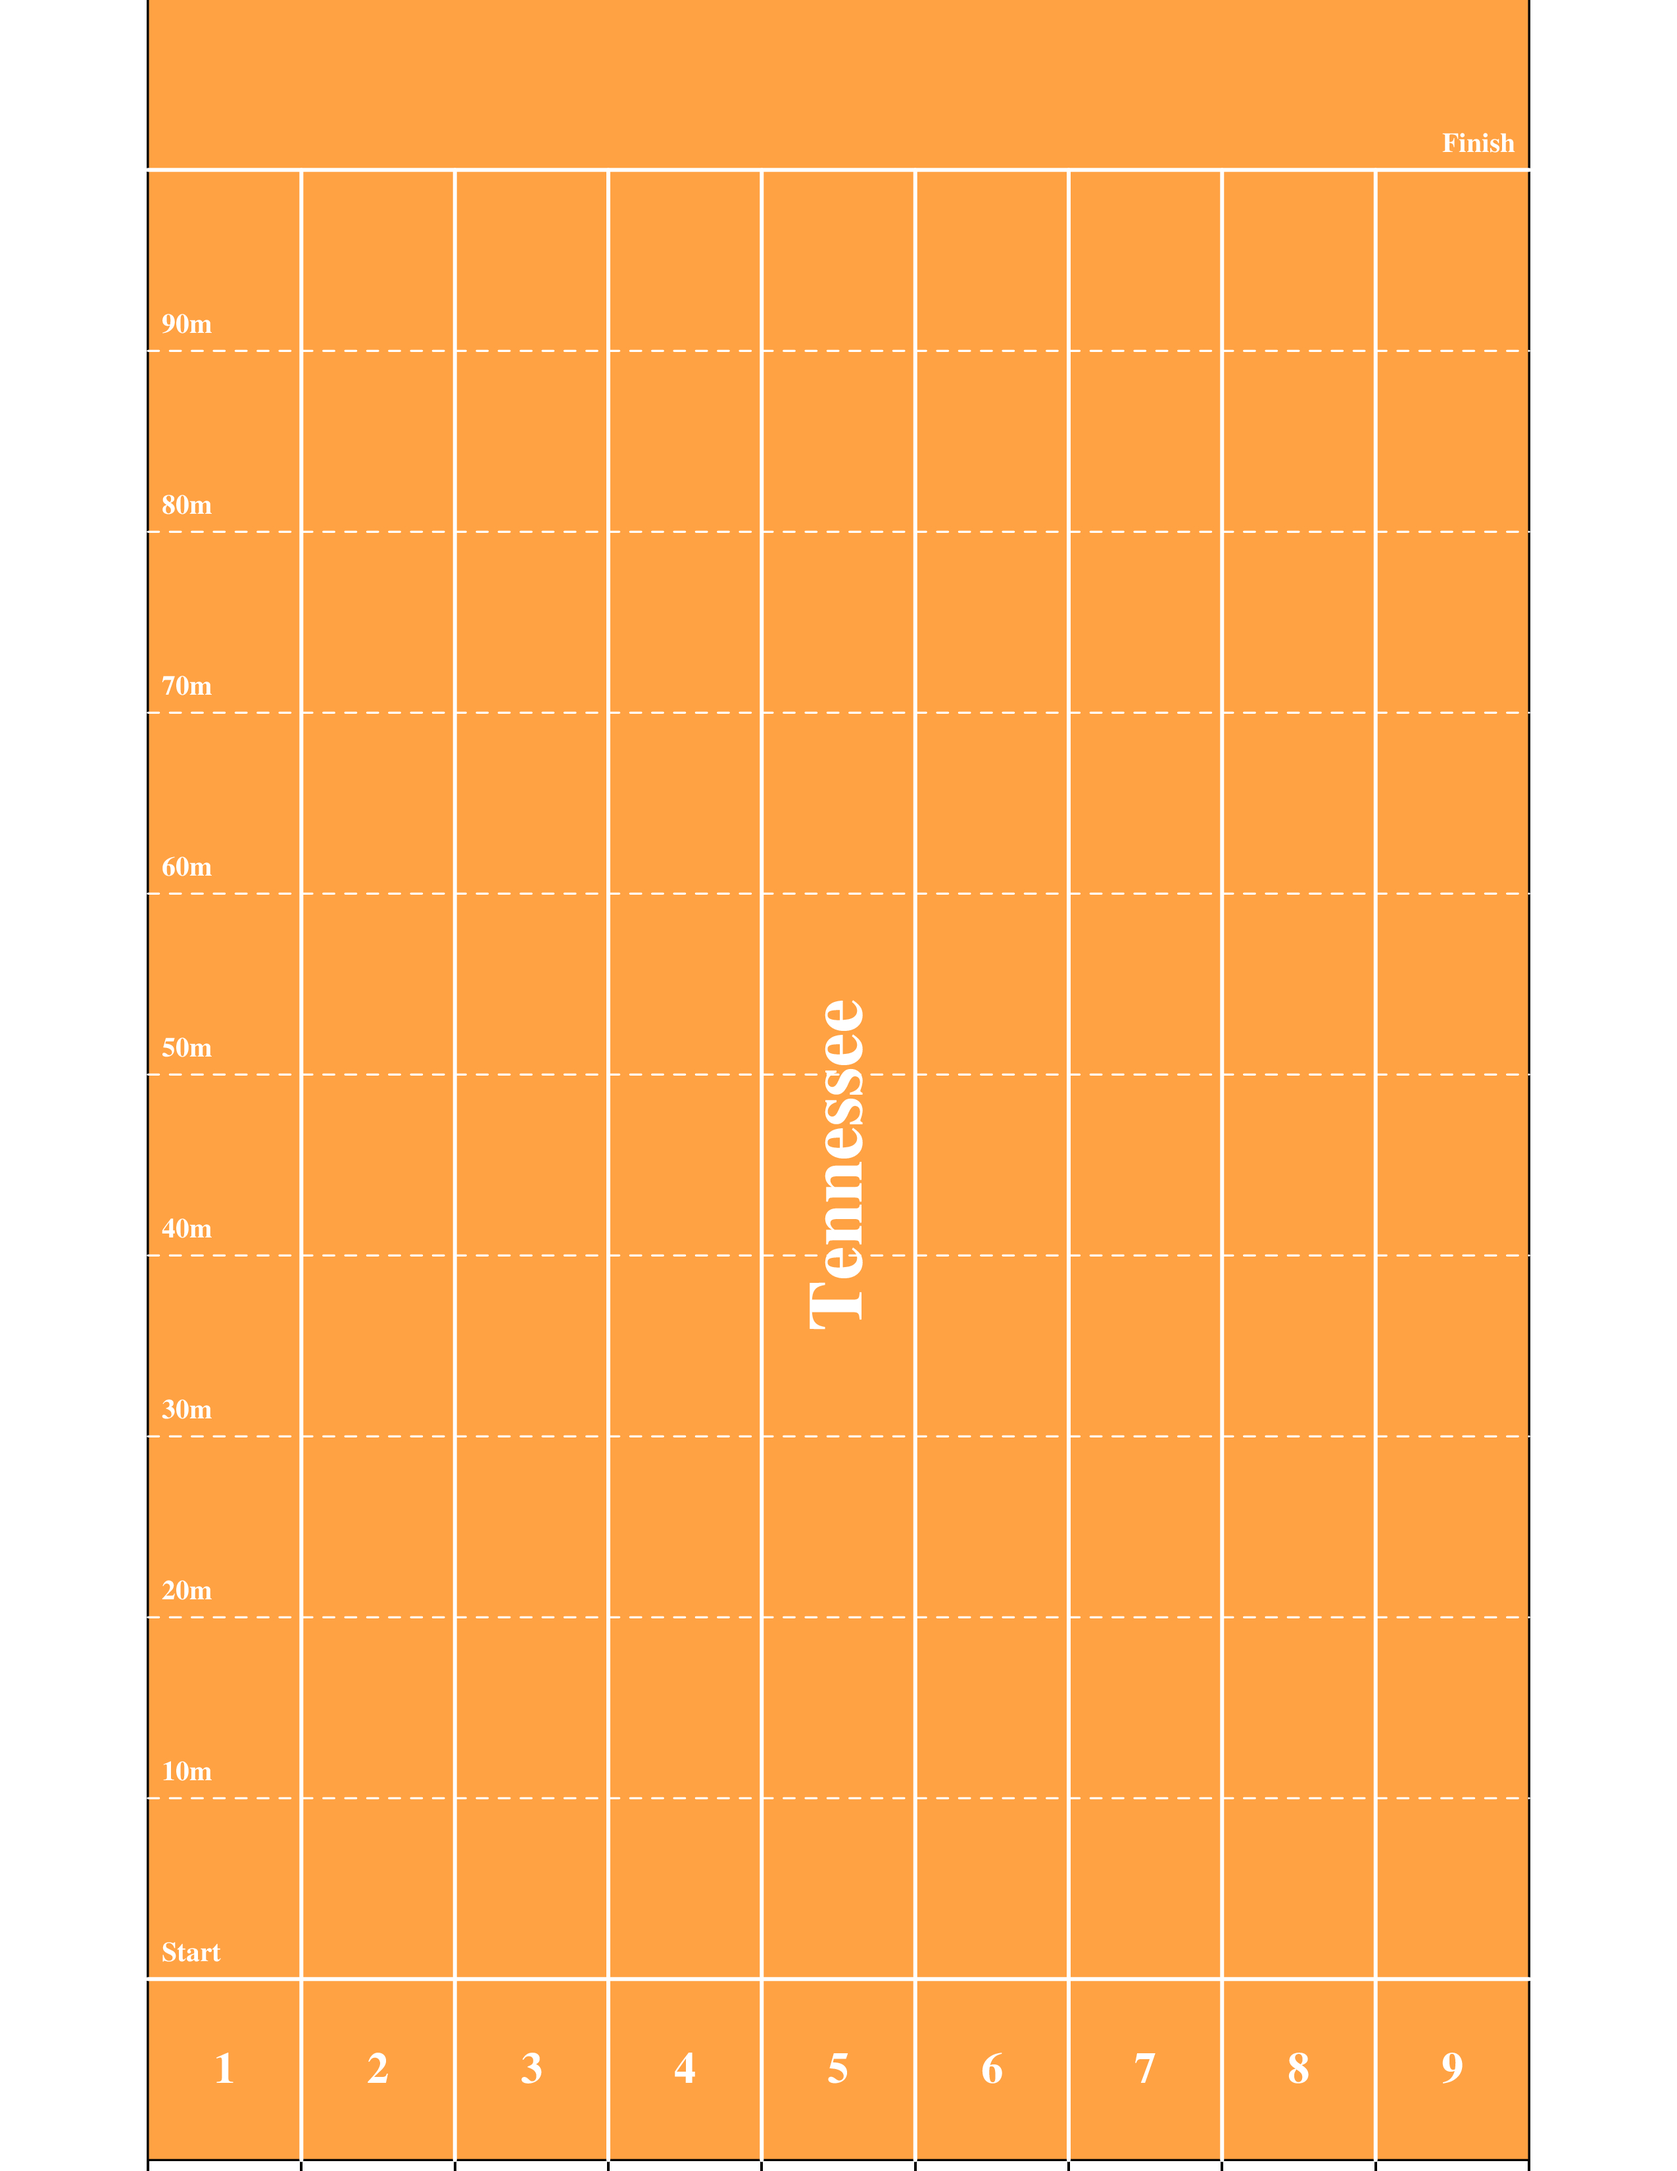
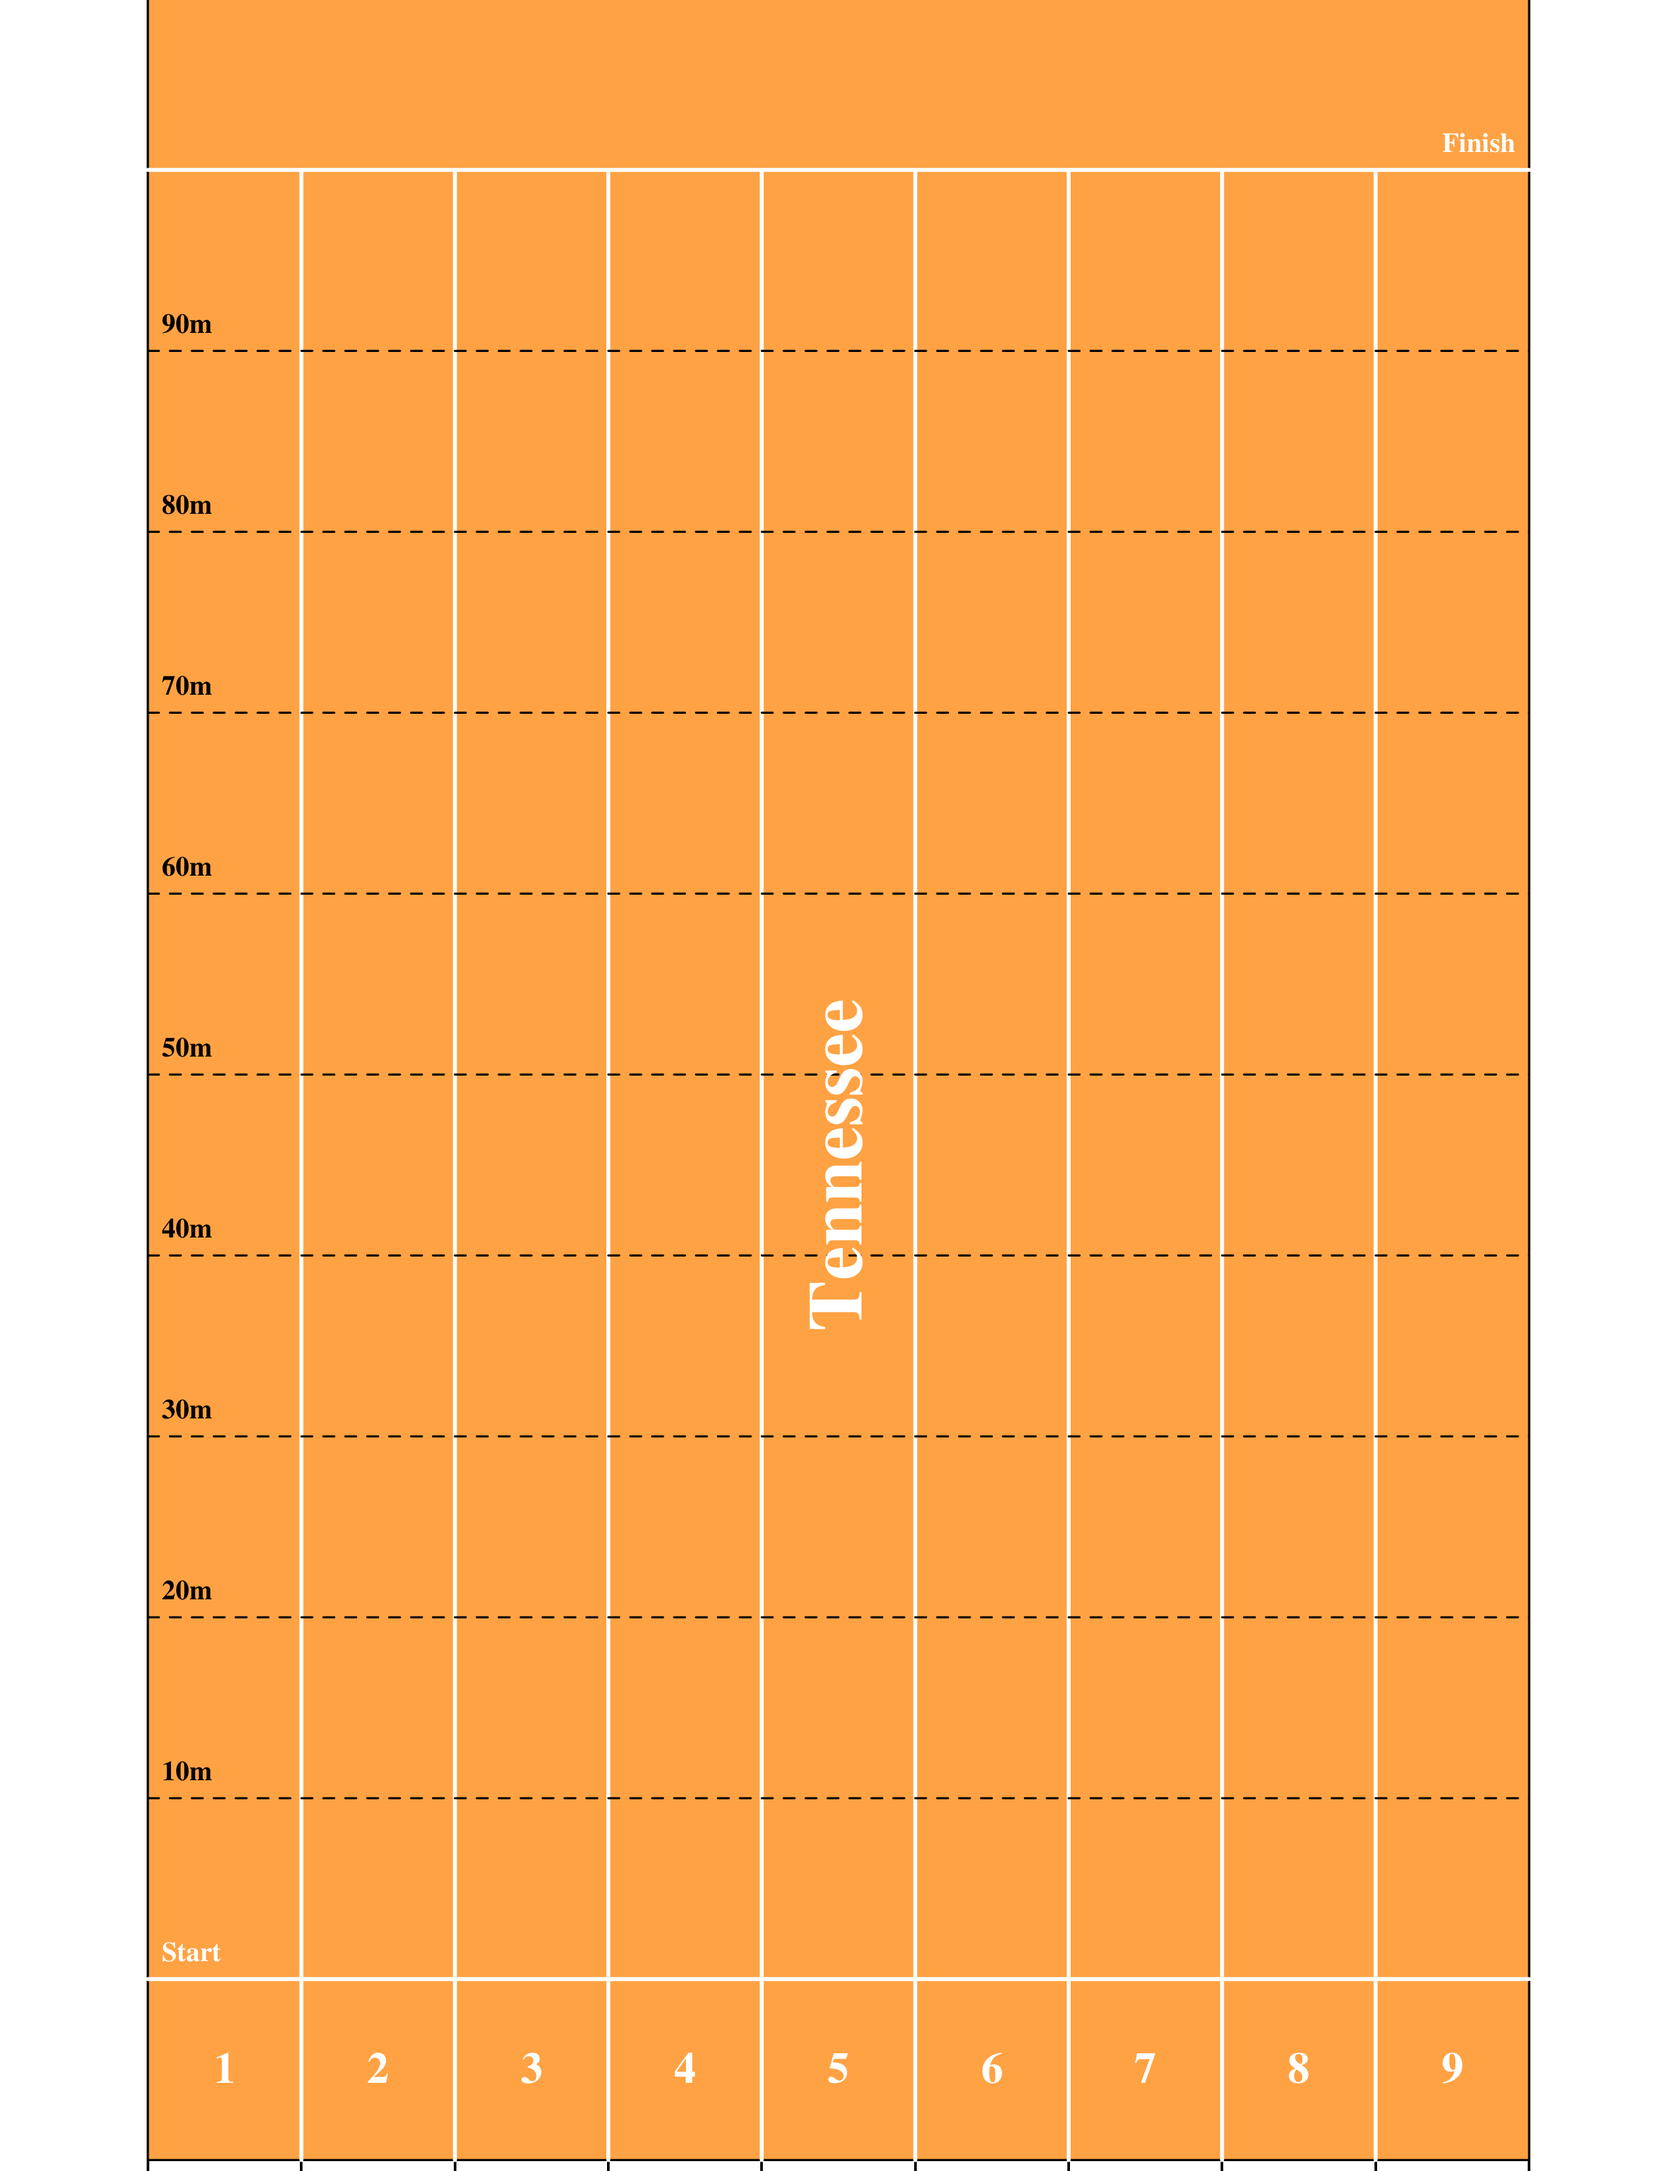
Added Data

diff --git a/src/tracksplits.cpp b/src/tracksplits.cpp
@@ -35,8 +35,8 @@ void plotTrack(int lanes, vector <float> color) {
     printf("newstring hjc vjc lcolor 1 1 1 font Times-Bold fontsize 28 rotate 90 x %f y 55 : Tennessee\n", (100.0/lanes*(lanes/2.0)));
     // Dashed 10m horiontal marks 
     for (int i = 2; i <=10; i++) {
-        printf("newline pts 0 %f 100 %f color 1 1 1 linethickness 1 linetype dashed\n", 10.0*i, 10.0*i);
-        printf("newstring hjl vjb lcolor 1 1 1 font Times-Bold fontsize 10 x 1 y %f : %dm\n", 10.0*i+1, (i-1)*10);
+        printf("newline pts 0 %f 100 %f color 0 0 0 linethickness 1 linetype dashed\n", 10.0*i, 10.0*i);
+        printf("newstring hjl vjb lcolor 0 0 0 font Times-Bold fontsize 10 x 1 y %f : %dm\n", 10.0*i+1, (i-1)*10);
     }
 }
 
